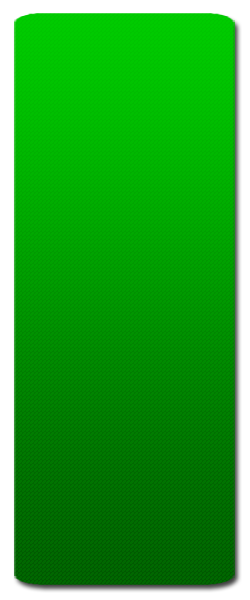
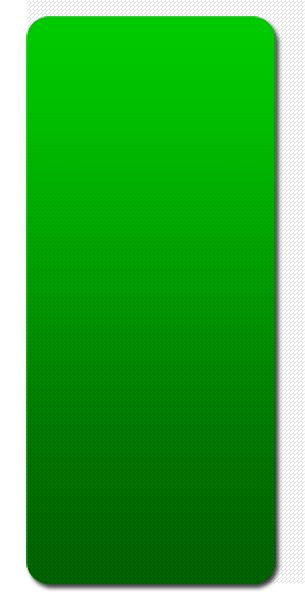
Inserts aangepast en nieuwe images toegevoegd

Changed region(s): [[0.056, 0.0, 0.98, 0.99]]

diff --git a/trunk/yahtzee/resources/css/gameroomStyle.css b/trunk/yahtzee/resources/css/gameroomStyle.css
@@ -24,7 +24,7 @@
 	background-image:url(../images/gameBodyBg.png);
 	background-repeat:no-repeat;
 	width:900px;
-	height:500px;
+	height:520px;
 }
 
 #rooms{
